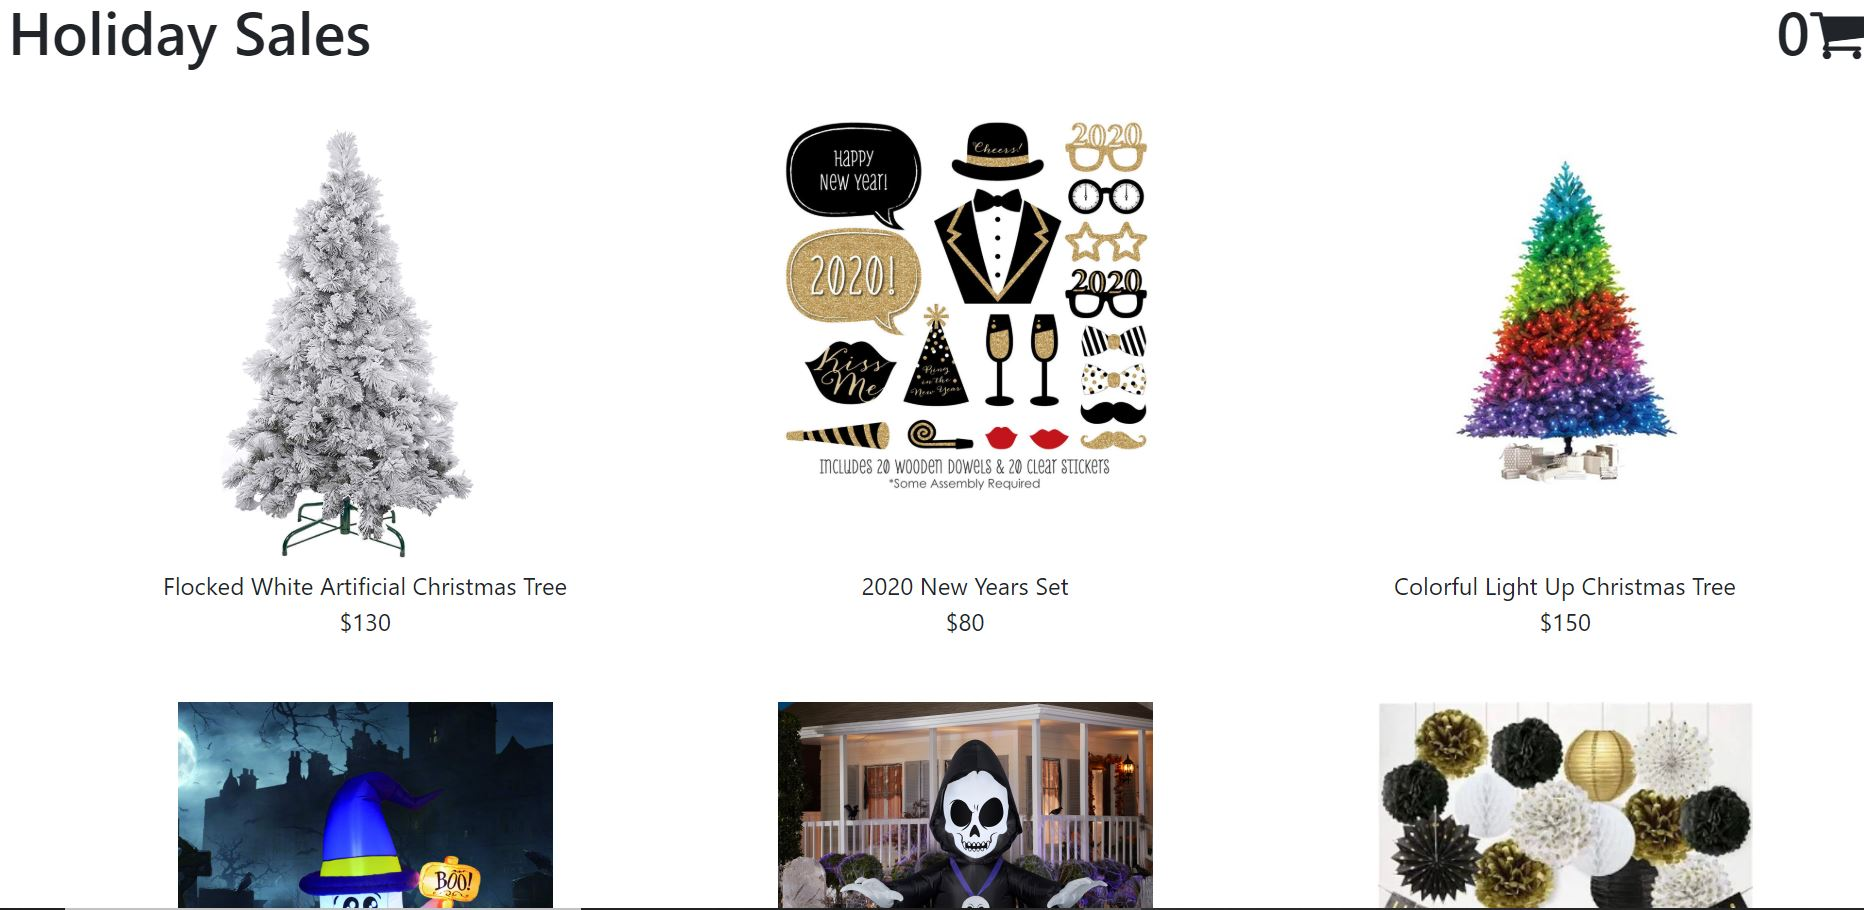
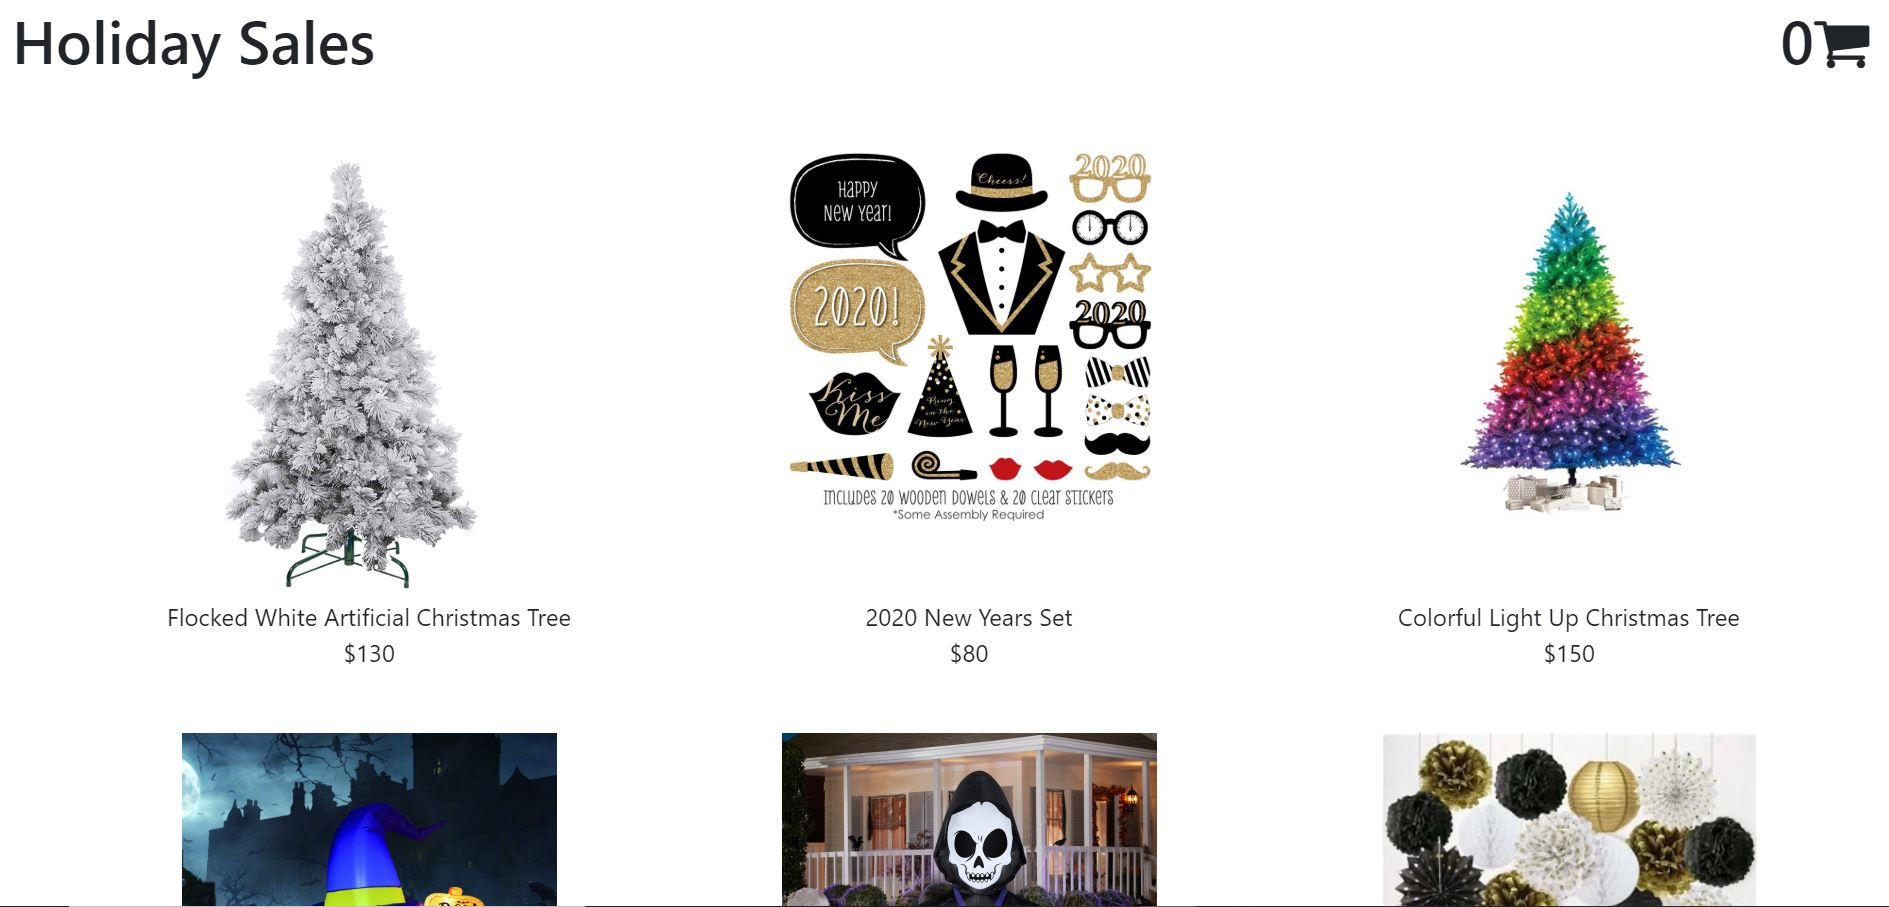
added the holiday sales image

diff --git a/spectral/indexSpectral.html b/spectral/indexSpectral.html
@@ -99,15 +99,14 @@
 				<!-- Two -->
 					<section id="two" class="wrapper alt style2">
 						<section class="spotlight">
-							<div class="image"><img src="images/pic01.jpg" alt="" /><img class="project" style="width: 80%" src="../img/memory-match-picture.JPG" alt="Memory Match Game Preview" /></div><div class="content">
+							<div class="image"><img src="images/pic01.jpg" alt="" /><img class="project1" style="width: 80%;height:55%;" src="../img/memory-match-picture.JPG" alt="Memory Match Game Preview" /></div><div class="content">
 								<h2>Lion King Memory Match</h2>
 								<p>Aliquam ut ex ut augue consectetur interdum. Donec hendrerit imperdiet. Mauris eleifend fringilla nullam aenean mi ligula.</p>
 							</div>
 						</section>
 						<section class="spotlight">
-							<div class="image"><img src="images/pic02.jpg" alt="" /></div><div class="content">
-								<h2>Tortor dolore feugiat<br />
-								elementum magna</h2>
+							<div class="image"><img src="images/pic02.jpg" alt="" /><img class="project2" style="width: 80%;height:55%;" src="../img/hslandingpage.JPG" alt="Holiday Sales Preview" /></div><div class="content">
+								<h2>Holiday Sales</h2>
 								<p>Aliquam ut ex ut augue consectetur interdum. Donec hendrerit imperdiet. Mauris eleifend fringilla nullam aenean mi ligula.</p>
 							</div>
 						</section>

diff --git a/spectral/assets/css/main.css b/spectral/assets/css/main.css
@@ -3997,7 +3997,7 @@ input, select, textarea {
 
 	}
 
-	.project {
+	.project1,.project2 {
 	position: absolute;
 	top: 25%;
 	left: 9%;
